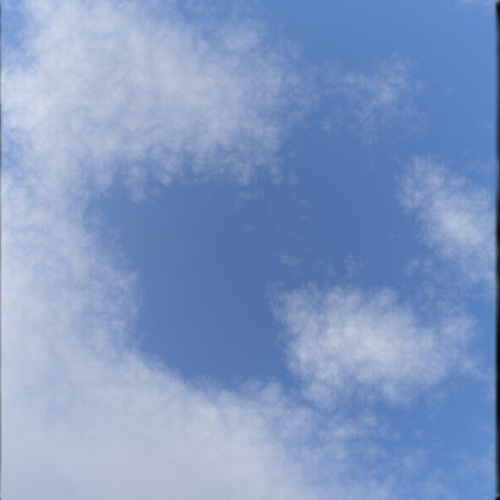
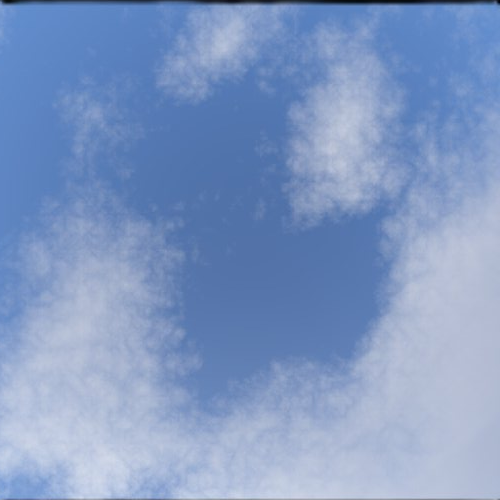
new first and third person

diff --git a/PROJETVOLANGTBL/PROJETVOLANGTBL/track3DViewer.cpp b/PROJETVOLANGTBL/PROJETVOLANGTBL/track3DViewer.cpp
@@ -115,9 +115,20 @@ void Track3DViewer::updateVehicule(Vehicule* vehicule)
         // Convert smoothed yaw back to radians for position calculation
         float smoothAngle = qDegreesToRadians(-m_cameraYaw);
 
-        // Camera position behind and above the car
-        float camOffsetBack = 15.0f;
-        float camHeight = 10.0f;
+        float camOffsetBack = 0.0f;
+        float camHeight = 0.0f;
+
+        if (carCamthird) {
+            // Camera position behind and above the car 3rd person view
+            camOffsetBack = 15.0f;
+            camHeight = 10.0f;
+        }
+        if (!carCamthird) {
+            // Camera first person view
+            camOffsetBack = 0.5f;
+            camHeight = 2.0f;
+        }
+		
 
         float camX = x - camOffsetBack * qCos(smoothAngle);
         float camZ = y - camOffsetBack * qSin(smoothAngle);
@@ -144,6 +155,27 @@ void Track3DViewer::setFirstPersonMode(bool enabled)
     if (m_fpController)
         m_fpController->setEnabled(false); // we drive the camera manually from vehicule data
 }
+
+void Track3DViewer::changeCameraMode()
+{
+    if (carCamthird) {
+        carCamthird = false; // switch to 1st person
+    } else {
+        carCamthird = true; // switch to 3rd person
+	}
+}
+
+bool Track3DViewer::eventFilter(QObject* obj, QEvent* event)
+{
+    if (event->type() == QEvent::KeyPress) {
+        QKeyEvent* ke = static_cast<QKeyEvent*>(event);
+        if (ke->key() == Qt::Key_V) changeCameraMode();
+    }
+    return QObject::eventFilter(obj, event);
+}
+
+
+
 
 // ─────────────────────────────────────────────
 // Scene setup
@@ -188,7 +220,7 @@ void Track3DViewer::buildScene(Track* track)
     Qt3DRender::QDirectionalLight* backLight = new Qt3DRender::QDirectionalLight(backEntity);
     backLight->setColor(QColor(200, 200, 200)); // neutral grey
 	backLight->setIntensity(0.3f); // rim light old : 0.2f
-    backLight->setWorldDirection(QVector3D(0.0f, 1.0f, 0.0f).normalized()); // from below
+    backLight->setWorldDirection(QVector3D(0.0f, -1.0f, 0.0f).normalized()); // from below
     backEntity->addComponent(backLight);
 
     // ── Car placeholder ──────────────────────────────────────
@@ -214,12 +246,12 @@ void Track3DViewer::buildSkybox(Track* track)
 {
     // Just use QSkyboxEntity - it works in Qt6 with correct path format
     Qt3DExtras::QSkyboxEntity* skybox = new Qt3DExtras::QSkyboxEntity(m_rootEntity);
-    
+
     QString basePath = "file:///" + QDir::currentPath() + track->getCurrentChoixMapData().skyboxFilePath;
     //QString basePath = "file:///" + QDir::currentPath() + "/images/skybox/space/cubemap1";
     basePath.replace("\\", "/"); // fix Windows backslashes
 
-    qDebug() << "Skybox base path:" << basePath;
+    //qDebug() << "Skybox base path:" << basePath;
 
     skybox->setBaseName(basePath);
     skybox->setExtension(".png");
@@ -1328,6 +1360,11 @@ Qt3DCore::QEntity* Track3DViewer::createBox(Qt3DCore::QEntity* parent,
     entity->addComponent(mat);
 
     return entity;
+}
+
+void Track3DViewer::keyPressEvent(QKeyEvent* event)
+{
+    if (event->key() == Qt::Key_V) changeCameraMode();
 }
 
 void Track3DViewer::onUpdateFrame()

diff --git a/PROJETVOLANGTBL/PROJETVOLANGTBL/Track.cpp b/PROJETVOLANGTBL/PROJETVOLANGTBL/Track.cpp
@@ -1586,7 +1586,7 @@ void Track::defaultMapList()
     map1.mapName = "nate";
     map1.mapFilePath = "tracks/nate.trk";
     map1.mapThumbnailPath = "thumbnails/track1.png";
-    map1.skyboxFilePath = "/images/skybox/blueSky/cubemap1";
+    map1.skyboxFilePath = "/images/skybox/sky/cubemap1";
 
     map1.groundData.width = 2000.0f;
     map1.groundData.height = 2000.0f;
@@ -1612,7 +1612,7 @@ void Track::defaultMapList()
     map2.mapName = "nate2";
     map2.mapFilePath = "tracks/nate2.trk";
     map2.mapThumbnailPath = "thumbnails/track2.png";
-    map2.skyboxFilePath = "/images/skybox/blueSky/cubemap1";
+    map2.skyboxFilePath = "/images/skybox/sky/cubemap1";
 
     map2.groundData.width = 2000.0f;
     map2.groundData.height = 2000.0f;
@@ -1638,7 +1638,7 @@ void Track::defaultMapList()
     map3.mapName = "TEST1";
     map3.mapFilePath = "tracks/TEST1.trk";
     map3.mapThumbnailPath = "thumbnails/track3.png";
-    map3.skyboxFilePath = "/images/skybox/blueSky/cubemap1";
+    map3.skyboxFilePath = "/images/skybox/space/cubemap1";
 
     map3.groundData.width = 2000.0f;
     map3.groundData.height = 2000.0f;

diff --git a/PROJETVOLANGTBL/PROJETVOLANGTBL/track3DViewer.h b/PROJETVOLANGTBL/PROJETVOLANGTBL/track3DViewer.h
@@ -1,5 +1,6 @@
 #pragma once
 
+#include <QKeyEvent>
 #include <Qt3DExtras/Qt3DWindow>
 #include <Qt3DCore/QEntity>
 #include <Qt3DRender/QCamera>
@@ -46,6 +47,10 @@ public:
 
     // Switch between first-person and orbit (debug) camera
     void setFirstPersonMode(bool enabled);
+	// Switch camera mode 3rd person / 1st person
+	void changeCameraMode(); 
+    bool eventFilter(QObject* obj, QEvent* event) override;
+
 
     
 public slots:
@@ -63,6 +68,10 @@ private:
     float m_cameraYaw = 15.0f;  // current smoothed angle
     float m_cameraLag = 0.35f; // 0.0 = instant, 1.0 = never catches up
     bool m_firstPersonMode = true;
+
+    // Car camera position
+	bool carCamthird = true; // true = 3rd person, false = 1st person
+    
 
 	// Skybox
     Qt3DExtras::QSkyboxEntity* m_skybox = nullptr;
@@ -119,4 +128,7 @@ private:
     HUDOverlay* m_hud = nullptr;
 signals:
     void trackUpdated(Track* track);
+
+protected:
+    void keyPressEvent(QKeyEvent* event) override;
 };

diff --git a/PROJETVOLANGTBL/PROJETVOLANGTBL/mainwindownate.cpp b/PROJETVOLANGTBL/PROJETVOLANGTBL/mainwindownate.cpp
@@ -283,11 +283,14 @@ void MainWindow::keyPressEvent(QKeyEvent* event)
         voiture.shiftUp();
             qDebug()<< "helo";
     }
+    
     if (event->key() == Qt::Key_Q) voiture.shiftDown();
     if (event->key() == Qt::Key_F1) {
         DevMenu* devMenu = new DevMenu(&voiture, this);
         devMenu->show(); // non-bloquant, le jeu continue
     }
+	
+    
 }
 
 void MainWindow::keyReleaseEvent(QKeyEvent* event)

diff --git a/PROJETVOLANGTBL/PROJETVOLANGTBL/main.cpp b/PROJETVOLANGTBL/PROJETVOLANGTBL/main.cpp
@@ -50,6 +50,7 @@ int main(int argc, char* argv[])
     container->setMinimumSize(1280, 720);
     container->resize(1280, 720);
     container->setWindowTitle("Racing Game 3D");
+    container->installEventFilter(viewer);
 
     HUDOverlay* hud = new HUDOverlay();
     hud->setWindowFlags(Qt::Tool | Qt::FramelessWindowHint | Qt::WindowStaysOnTopHint);

diff --git a/PROJETVOLANGTBL/PROJETVOLANGTBL/mainwindownate.h b/PROJETVOLANGTBL/PROJETVOLANGTBL/mainwindownate.h
@@ -3,7 +3,6 @@
 
 #include <QMainWindow>
 #include <QPixmap>
-#include "Vehicule.h"
 #include <QElapsedTimer>
 #include <QTimer>
 #include <QTime>
@@ -12,6 +11,7 @@
 #include <QPixmap>
 #include <map>
 #include <SoundManager.h>
+#include "Vehicule.h"
 #include "raceTimes.h"
 #include "ArduinoManager.h"
 
